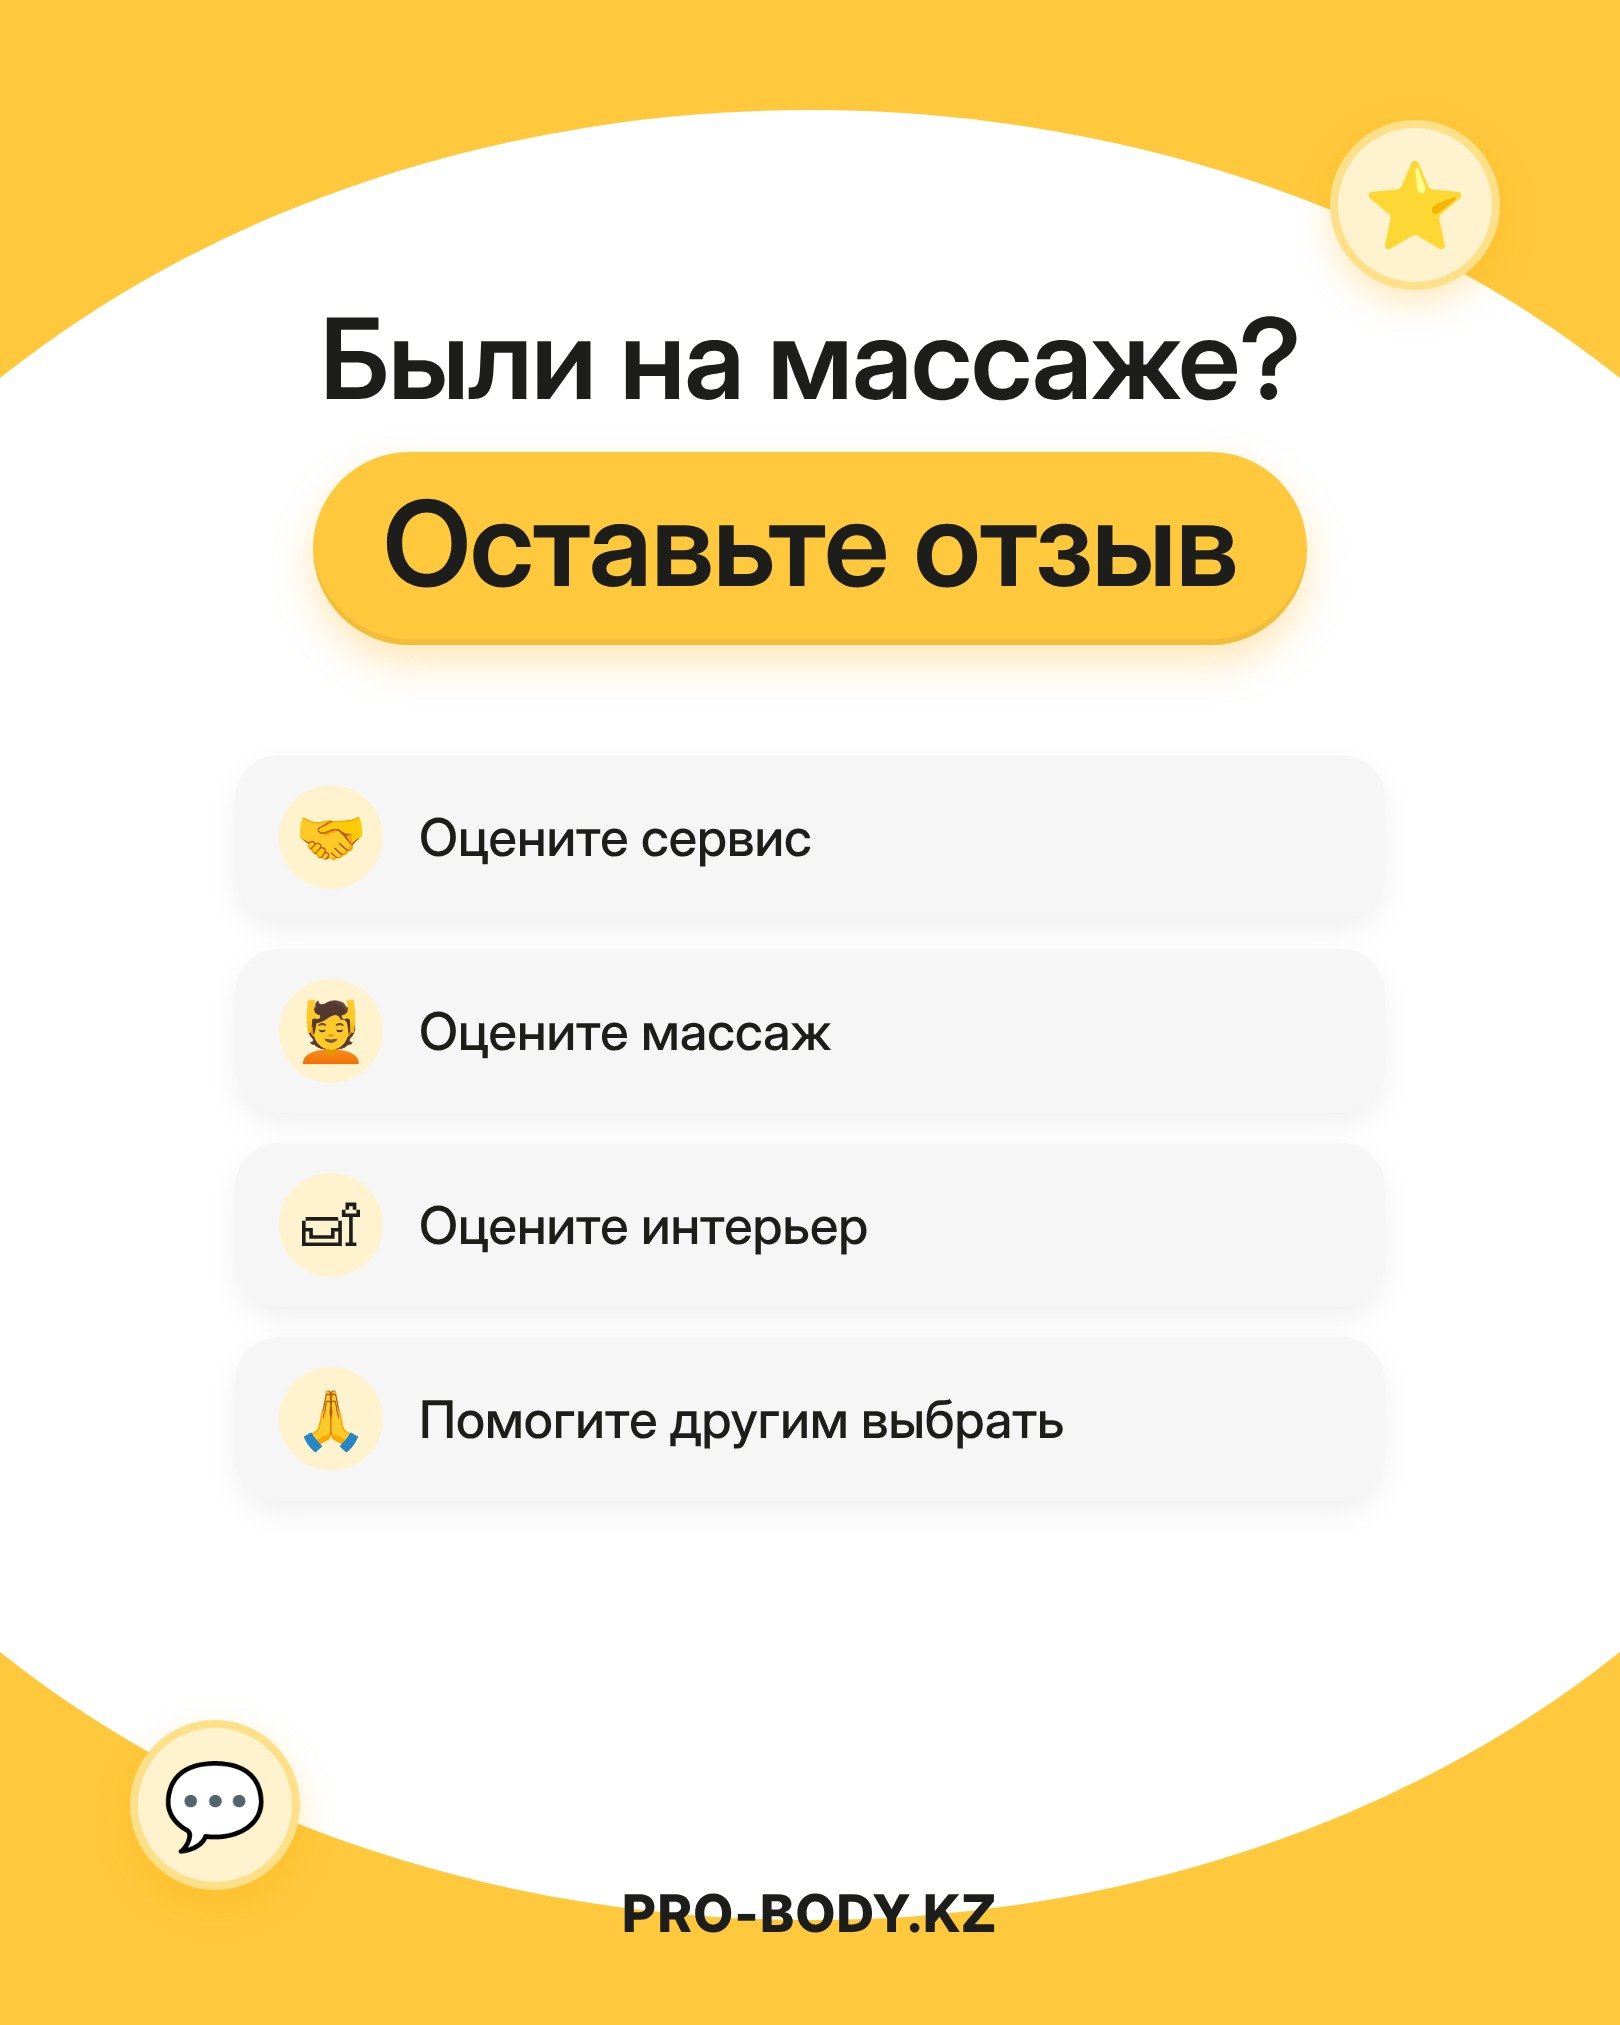
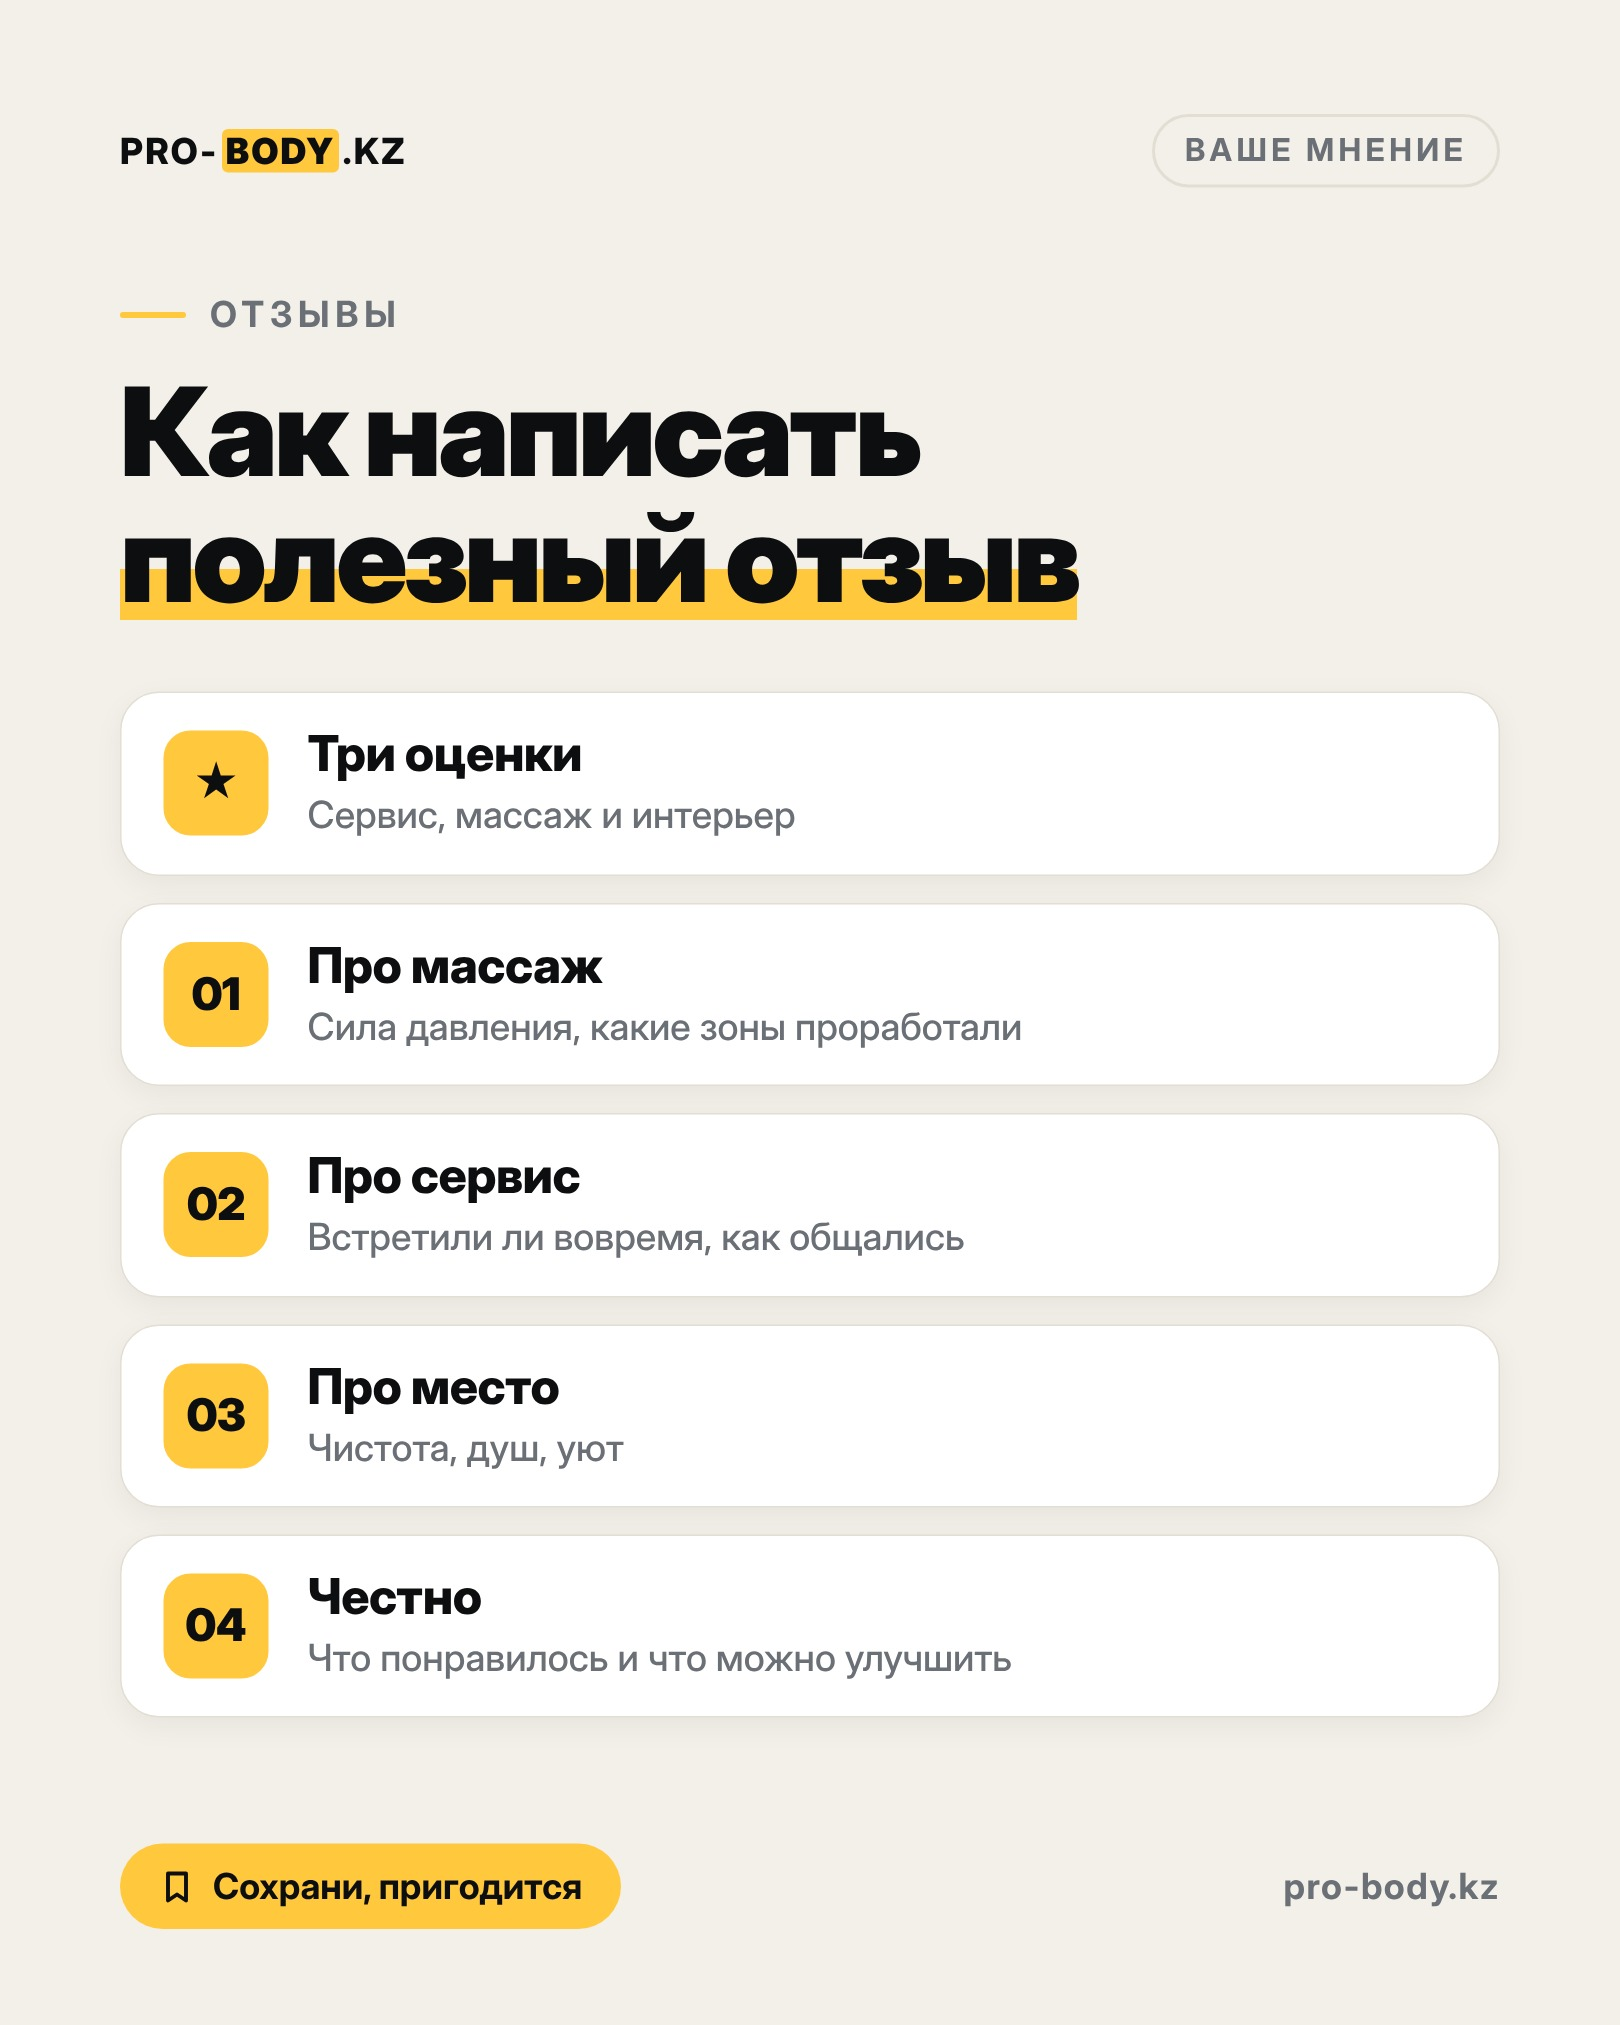
Redesign 06.11–12.11 posts: practical tips, dark/light editorial style
Claude-Session: https://claude.ai/code/session_01Ttgfn8pYigP5t7TGjw4aK2

diff --git a/tools/posts/render.js b/tools/posts/render.js
@@ -1,22 +1,42 @@
-// node render.js spec.json outdir — single posts 1620x2025 in the yellow/white style of images/01–21
+// node render.js spec.json outdir — single posts 1620x2025 (4:5), dark/light editorial style
 const {chromium}=require('playwright');const fs=require('fs');const path=require('path');
 const [spec,out]=process.argv.slice(2);const posts=JSON.parse(fs.readFileSync(spec,'utf8'));
 const esc=s=>s.replace(/&/g,'&amp;').replace(/</g,'&lt;');
 const css=`*{margin:0;padding:0;box-sizing:border-box}
-body{width:1620px;height:2025px;overflow:hidden;background:#ffc83d;font-family:'Inter Display','Inter',sans-serif;color:#1d1d1b;position:relative}
-.c{position:absolute;left:-330px;right:-330px;top:110px;height:1810px;border-radius:50%;background:#fff}
-.w{position:absolute;inset:0;display:flex;flex-direction:column;align-items:center;padding-top:300px}
-h1{font-weight:600;font-size:132px;letter-spacing:-.01em;line-height:1.05;text-align:center}
-.pill{margin-top:34px;background:#ffc83d;border-radius:200px;padding:30px 70px 40px;font-weight:600;font-size:118px;line-height:1.05;letter-spacing:-.01em;box-shadow:0 18px 40px rgba(255,170,0,.28),inset 0 -6px 0 rgba(0,0,0,.05);text-align:center;max-width:1420px}
-.pill.s{font-size:92px}
-ul{list-style:none;margin-top:110px;width:1150px;display:flex;flex-direction:column;gap:30px}
-li{display:flex;align-items:center;gap:36px;background:#f6f6f6;border-radius:44px;padding:30px 44px;font-size:52px;font-weight:500;box-shadow:0 12px 30px rgba(0,0,0,.06)}
-li span{flex:none;width:104px;height:104px;border-radius:50%;background:#fff3cf;display:flex;align-items:center;justify-content:center;font-size:58px}
-.b{position:absolute;width:170px;height:170px;border-radius:50%;background:#fff3cf;border:8px solid #ffe08a;display:flex;align-items:center;justify-content:center;font-size:84px;box-shadow:0 14px 34px rgba(255,170,0,.25)}
-.b1{right:120px;top:120px}.b2{left:130px;top:1720px}
-.logo{position:absolute;bottom:80px;width:100%;text-align:center;font-weight:800;font-size:52px;letter-spacing:.04em}`;
-(async()=>{const b=await chromium.launch();const pg=await b.newPage({viewport:{width:1620,height:2025}});
-for(const p of posts){const pill=p.pill.length>16?'pill s':'pill';
-const html=`<html><head><style>${css}</style></head><body><div class="c"></div><div class="w"><h1 style="font-size:${p.h1.length>13?112:132}px">${esc(p.h1)}</h1><div class="${pill}">${esc(p.pill)}</div><ul>${p.items.map(([e,t])=>`<li><span>${e}</span>${esc(t)}</li>`).join('')}</ul></div><div class="b b1">${p.badges[0]}</div><div class="b b2">${p.badges[1]}</div><div class="logo">PRO-BODY.KZ</div></body></html>`;
-await pg.setContent(html);await pg.waitForTimeout(300);await pg.screenshot({path:path.join(out,p.image),type:'jpeg',quality:92});console.log(p.image)}
+:root{--y:#ffc83d}
+.dark{--bg:#0d0e10;--fg:#f3f0ea;--mute:#9a9ea6;--card:#17191c;--line:#2a2d31;--kfg:#ffc83d}
+.light{--bg:#f3f0ea;--fg:#0d0e10;--mute:#6b6f76;--card:#ffffff;--line:#e3ded4;--kfg:#0d0e10}
+html,body{width:1080px;height:1350px;overflow:hidden}
+body{font-family:'Inter Display','Inter',sans-serif;background:var(--bg);color:var(--fg);-webkit-font-smoothing:antialiased;position:relative;padding:76px 80px}
+.dark{background:radial-gradient(900px 700px at 100% 0%,#2a2410 0%,#0d0e10 60%)}
+.top{display:flex;justify-content:space-between;align-items:center;font-weight:800;font-size:24px;letter-spacing:.06em}
+.top b{color:var(--y)}.light .top b{color:var(--fg);background:var(--y);padding:0 3px;margin:0 2px;border-radius:4px}
+.tag{font-size:21px;font-weight:700;letter-spacing:.14em;text-transform:uppercase;border:2px solid var(--line);border-radius:100px;padding:10px 20px;color:var(--mute)}
+.kick{margin-top:70px;font-size:24px;font-weight:700;letter-spacing:.16em;text-transform:uppercase;color:var(--mute);display:flex;align-items:center;gap:16px}
+.kick:before{content:'';width:44px;height:4px;background:var(--y);border-radius:4px}
+h1{margin-top:22px;font-weight:900;font-size:82px;line-height:1.02;letter-spacing:-.03em}
+h1.s{font-size:70px}
+.dark h1 em{font-style:normal;color:var(--y)}
+.light h1 em{font-style:normal;background:linear-gradient(transparent 58%,var(--y) 58%,var(--y) 92%,transparent 92%)}
+ul{list-style:none;margin-top:48px;display:flex;flex-direction:column;gap:18px}
+li{display:flex;gap:26px;align-items:center;background:var(--card);border:1px solid var(--line);border-radius:26px;padding:22px 28px}
+.light li{box-shadow:0 6px 20px rgba(13,14,16,.05)}
+li .k{flex:none;min-width:70px;height:70px;padding:0 14px;border-radius:18px;background:var(--y);color:#0d0e10;font-weight:900;font-size:26px;display:flex;align-items:center;justify-content:center;letter-spacing:-.01em}
+li .k.n{font-size:30px}
+li .t{font-weight:800;font-size:33px;line-height:1.15;letter-spacing:-.01em}
+li .d{margin-top:6px;font-size:25px;line-height:1.3;color:var(--mute);font-weight:500}
+ul.c6 li{padding:16px 26px}ul.c6 li .k{height:58px;min-width:58px}
+.bot{position:absolute;left:80px;right:80px;bottom:64px;display:flex;justify-content:space-between;align-items:center;font-size:24px;font-weight:700}
+.save{display:flex;align-items:center;gap:12px;background:var(--y);color:#0d0e10;border-radius:100px;padding:14px 26px}
+.save svg{width:24px;height:24px}
+.url{color:var(--mute);letter-spacing:.04em}`;
+const save='<svg viewBox="0 0 24 24" fill="none" stroke="#0d0e10" stroke-width="2.6" stroke-linejoin="round"><path d="M6 3h12v18l-6-4-6 4z"/></svg>';
+(async()=>{const b=await chromium.launch();const pg=await b.newPage({viewport:{width:1080,height:1350},deviceScaleFactor:1.5});
+for(const p of posts){
+const items=p.items.map(([k,t,d])=>`<li><div class="k${/^\d+$|^[✓★]$/.test(k)?' n':''}">${esc(k)}</div><div><div class="t">${esc(t)}</div><div class="d">${esc(d)}</div></div></li>`).join('');
+const hlen=p.h.replace(/<[^>]+>/g,'').length;
+const html=`<html><head><style>${css}</style></head><body class="${p.theme}"><div class="top"><div>PRO-<b>BODY</b>.KZ</div><div class="tag">${esc(p.tag)}</div></div>
+<div class="kick">${esc(p.kicker)}</div><h1 class="${hlen>36?'s':''}">${p.h}</h1><ul class="${p.items.length>5?'c6':''}">${items}</ul>
+<div class="bot"><div class="save">${save}Сохрани, пригодится</div><div class="url">pro-body.kz</div></div></body></html>`;
+await pg.setContent(html);await pg.waitForTimeout(250);await pg.screenshot({path:path.join(out,p.image),type:'jpeg',quality:92});console.log(p.image)}
 await b.close()})();
